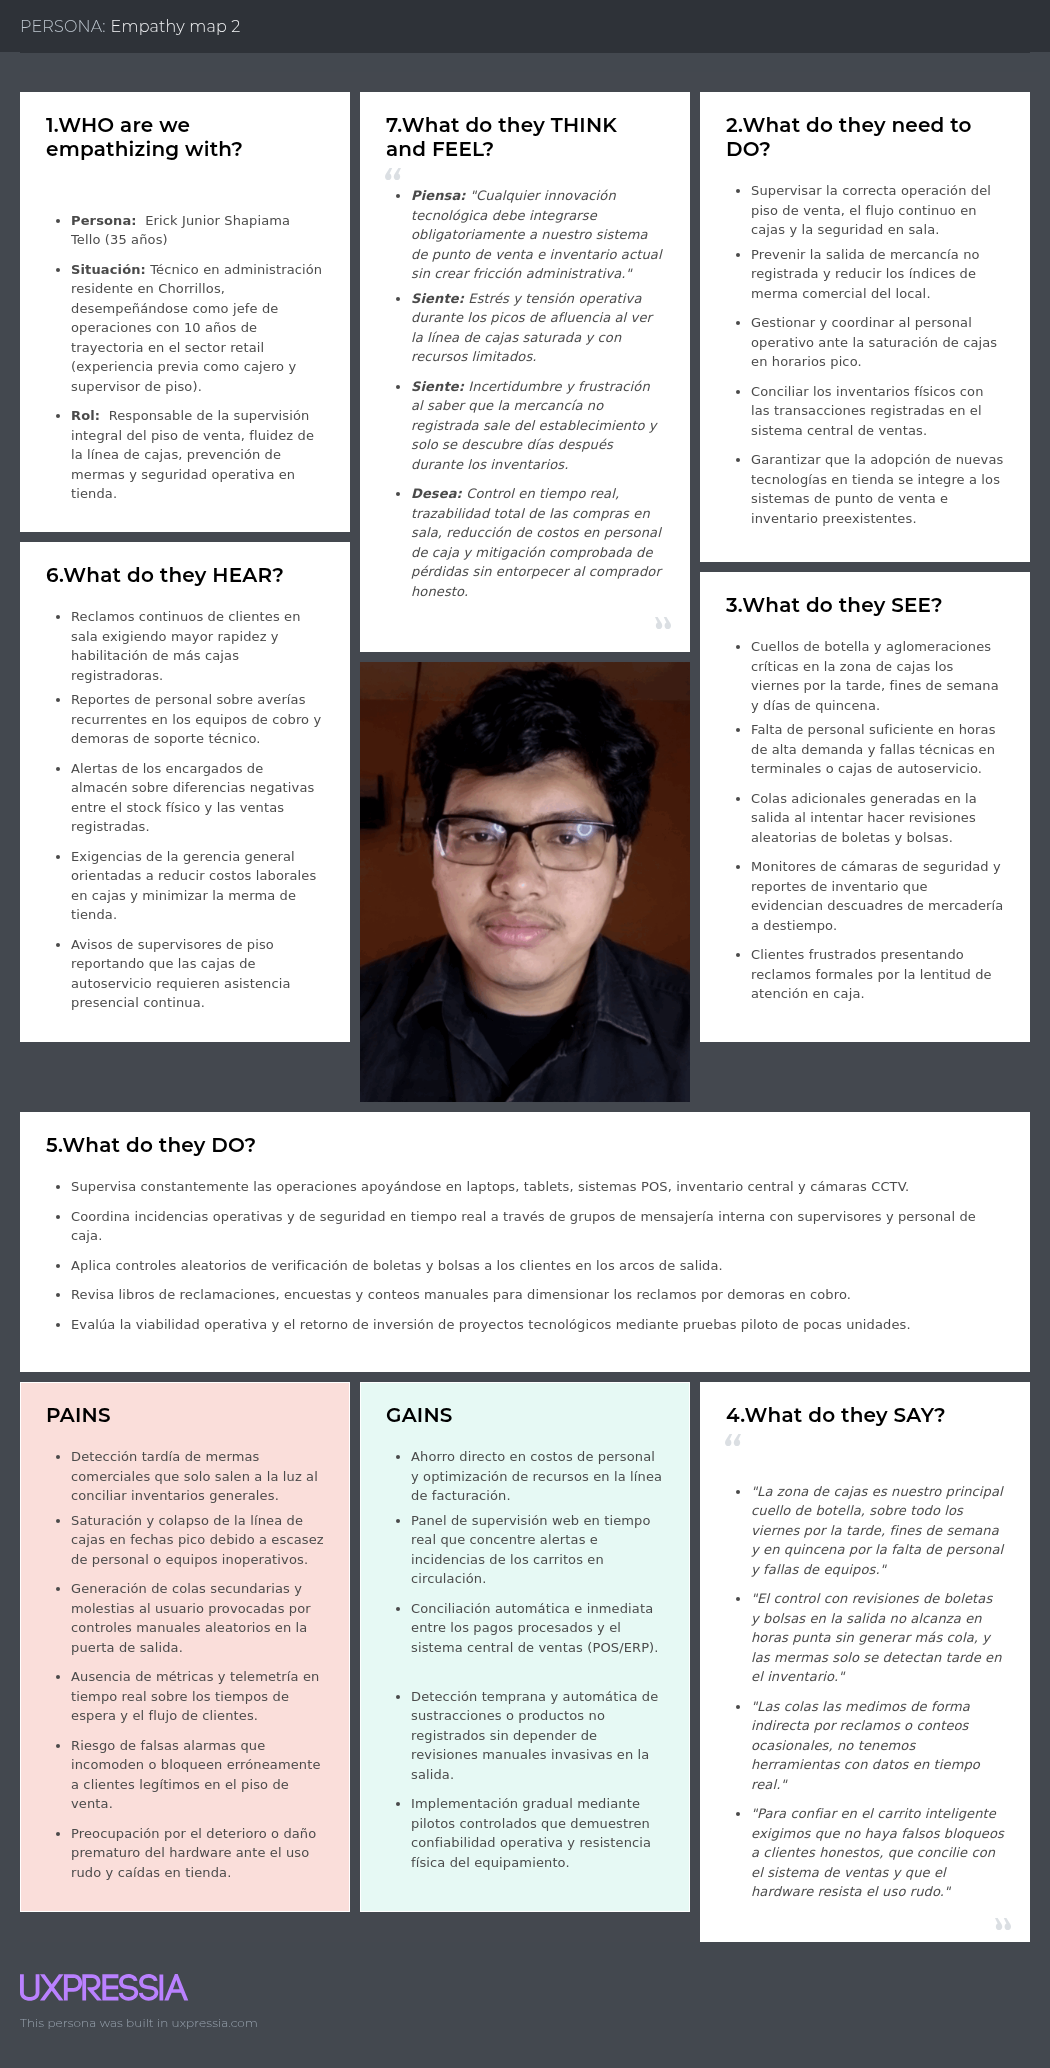
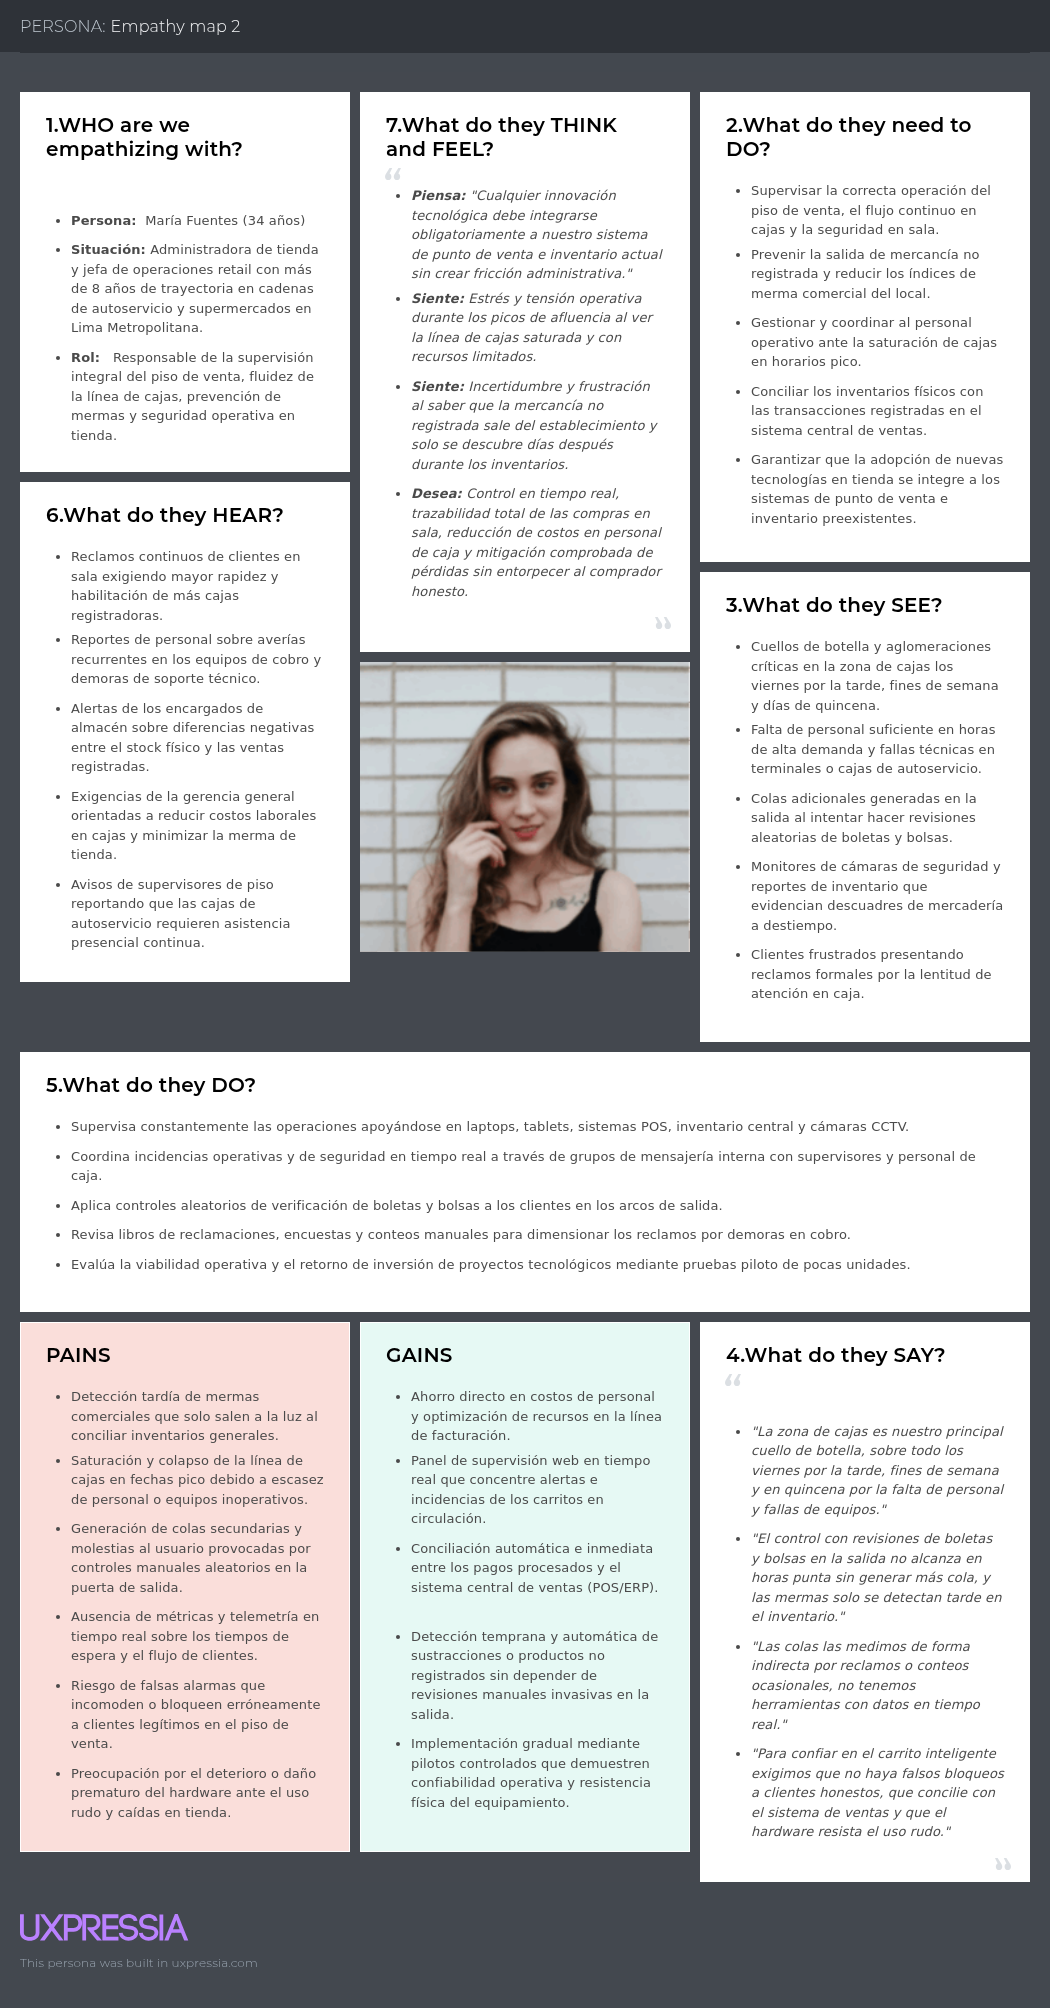
Commit

Changed region(s): [[0.0, 0.0309, 1.0, 0.9263], [0.0305, 0.9572, 0.1829, 0.988], [0.9448, 0.9263, 0.9752, 0.9572]]

diff --git a/README.md b/README.md
@@ -4012,8 +4012,47 @@ void EnvironmentMonitor::sendTelemetry() {
 </code></pre>
 
 ### 6.1.4. Software Deployment Configuration
-*(Pendiente — Responsable: Kevin)*
 
+En esta sección el equipo especifica la configuración técnica y los procedimientos de despliegue continuo (CI/CD) adoptados para disponibilizar públicamente cada uno de los productos digitales que conforman la solución integral de Innova Carty. La estrategia combina integración continua automatizada desde los repositorios de GitHub hacia plataformas de infraestructura moderna en la nube (*Platform as a Service* y *Serverless Hosting*), asegurando alta disponibilidad, certificados SSL/TLS automáticos y trazabilidad de versiones.
+
+#### A. Resumen de Entornos de Despliegue
+
+| Producto Digital | Plataforma de Despliegue | Propósito y Responsabilidad | Enlace / Ruta de Acceso |
+| :--- | :--- | :--- | :--- |
+| **Landing Page** | Vercel | Alojamiento y distribución global del sitio web estático para la captación comercial y difusión de la propuesta de valor hacia consumidores y cadenas de supermercados. | [Ver Landing Page](https://innova-carty-landing-page.vercel.app/#app) |
+| **Web Application (Consola de Operaciones)** | Vercel | Alojamiento de la Single Page Application (SPA) en Angular para la administración de flota, supervisión de piso de venta, resolución de discrepancias y calibración de catálogo. | [Ver Consola Web](https://innova-carty-web-app.vercel.app/sign-in) |
+| **Mock API Services (Sprint 1)** | Render | Servicio web en la nube ejecutando `json-server` sobre Node.js para alimentar la consola web bajo el prefijo unificado `/api/v1`. | [Ver API Mock](https://innova-carty-web-app.vercel.app/api/v1) |
+| **Backend REST API (Spring Boot - Sprint 2)** | Render | Contenedor de ejecución para los microservicios Java / Spring Boot que gobernarán los cuatro Bounded Contexts del núcleo transaccional. | [Acceso a Render](https://render.com/) |
+| **Relational Database** | Railway | Instancia administrada de base de datos relacional (PostgreSQL) para la persistencia transaccional y bitácoras de auditoría. | [Acceso a Railway](https://railway.app/) |
+
+---
+
+#### B. Procedimientos de Configuración y Despliegue por Producto
+
+##### 1. Landing Page (`innova-carty-landing-page`)
+Para el despliegue del Landing Page se seleccionó **Vercel**, aprovechando su red de distribución global (Edge Network) y soporte nativo para despliegue continuo a partir de repositorios estáticos:
+1. **Vinculación con GitHub:** Se enlazó el proyecto en Vercel con el repositorio oficial `innova-carty-landing-page` de la organización.
+2. **Definición de Rama de Producción:** Se configuró la rama `main` como entorno de producción (*Production Branch*) y la rama `develop` para generación de previsualizaciones automáticas (*Preview Deployments*).
+3. **Parámetros de Construcción:** 
+   * **Framework Preset:** `Other`.
+   * **Build Command:** Ninguno (servido directamente como sitio estático optimizado).
+   * **Output Directory:** `./` (raíz del repositorio).
+4. **Validación del Despliegue:** Tras el despliegue automático, se verificó el correcto funcionamiento del diseño responsivo, el selector bilingüe (ES/EN), la validación del formulario de demostración comercial y las metas SEO/Open Graph.
+
+##### 2. Frontend Web Application (`innova-carty-frontend-web-app`)
+La Consola de Operaciones fue desarrollada en **Angular** y su despliegue se automatizó en **Vercel** mediante su motor de compilación para Single Page Applications:
+1. **Vinculación de Repositorio:** Conexión directa con `innova-carty-frontend-web-app` desde la interfaz de Vercel.
+2. **Parámetros de Construcción:**
+   * **Framework Preset:** `Angular`.
+   * **Build Command:** `ng build --configuration production`.
+   * **Output Directory:** `dist/innova-carty-frontend-web-app/browser`.
+3. **Manejo de Enrutamiento del Cliente (`vercel.json`):** Para evitar errores de recurso no encontrado (HTTP 404) al recargar rutas internas del navegador (como `/carts`, `/alerts` o `/catalog`), se incorporó en la raíz del repositorio el archivo de configuración con reglas de reescritura (*rewrites*):
+   ```json
+   {
+     "rewrites": [
+       { "source": "/(.*)", "destination": "/index.html" }
+     ]
+   }
 ---
 
 ## 6.2. Landing Page, Services & Applications Implementation
